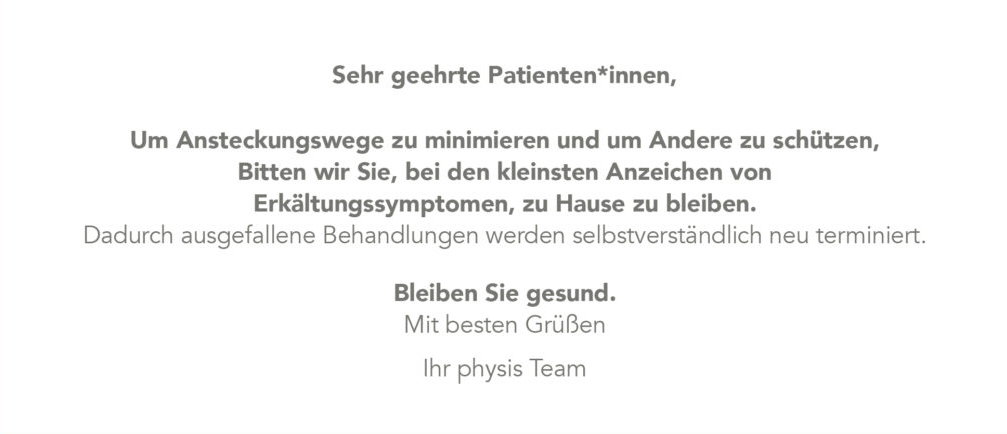
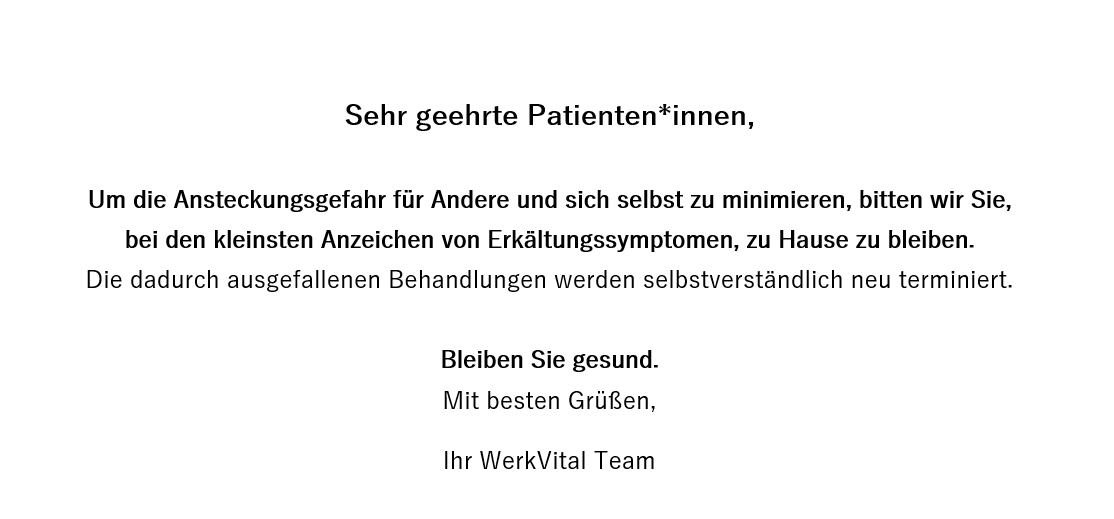
Updated WerkVital
Updated WerkVital

diff --git a/werkVital_files/werkVital.css b/werkVital_files/werkVital.css
@@ -9,7 +9,7 @@ body {
     min-height: 100%;
     margin: 0;
     padding: 0;
-    font-family:'Titillium Web',sans-serif;
+    font-family: 'Yu Gothic Medium', sans-serif;
     font-size:1.5em;
     line-height:1.2;
     background-color: #ffffff;
@@ -21,42 +21,12 @@ body {
     background-color: #ffffff;
 }
 
-#navbar {
-    margin: auto;
-    max-width: 75%;
-}
-
 #innerWrapper {
     height: 100%;
     max-width: 80%;
     margin-left: auto;
     margin-right: auto;
     font-size:  0.8em;
-    padding-bottom: 10%;
-}
-
-#footWrapper {
-    position: page;
-    bottom: 0;
-    min-width: 100%;
-    font-size: 0.5em;
-    background-color: #6E7857;
-    padding: 1.5% 0;
-    line-height:1.5;
-}
-
-#footerAddress {
-    min-width: 60%;
-    margin: auto;
-    display: inline-block;
-    text-align: left;
-}
-
-#footerOffnungszeiten {
-    min-width: 10%;
-    margin: auto;
-    display: inline-block;
-    text-align: right;
 }
 
 #head{
@@ -67,47 +37,64 @@ body {
     z-index: 100;
 }
 
-ul.navbar {
-    list-style-type: none;
-    margin: 0;
-    padding: 0;
-    /*overflow: hidden;*/
-    background-color: #ffffff;
-}
 
-ul.navbar li {
-    padding-top: 1em;
-    float: right;
-}
-
-ul.navbar li a {
-    display: inline-block;
-    color: #000010;
-    text-align: center;
-    padding: 0.6em 0.3em;
-    text-decoration: none;
-}
-
-ul.navbar li a:hover:not(.active) {
-    color: #5E8600;
-    transition: all .2s ease-in-out;
-}
-
-ul.navbar li a.active {
-    color: #97d700;
-    text-decoration: underline;
-}
 
 #separator {
     background-color: #97d700;
     padding: 0.1em;
 }
-#separatorImg {
+.separatorImg {
     background-color: #97d700;
     padding-bottom: 0.2em;
-    margin-top: -0.25em;
+    margin-top: -0.27em;
     margin-bottom: 0.5em;
 }
+
+
+
+#content_box1 {
+    border: red solid 2px;
+    width: 100%;
+    padding-bottom: 1em;
+}
+
+#content_box2 {
+    border: red solid 2px;
+    width: 100%;
+    padding-bottom: 1em;
+}
+
+
+#separator_content {
+    position: relative;
+}
+
+#alertContainer {
+    position: absolute;
+    top: 65%;
+    left: 50%;
+    transform: translate(-50%, -50%);
+    min-width: 70%;
+}
+
+#welcomeText {
+    text-align-last: left;
+    line-height: 1.2;
+    font-size: 1.2em;
+    position: absolute;
+    top: 17%;
+    left: 30%;
+    transform: translate(-15%, -50%);
+}
+
+#welcomeAlert {
+    max-width: 100%;
+    padding: 1%;
+    border: 2px solid #6E7857;
+    opacity: 0.85;
+}
+
+/* ------------------------- Leistungen Liste ------------------------- */
 
 ul.footerList {
     list-style-type: none;
@@ -145,48 +132,45 @@ ul.footerList li a:hover {
     color: #97d700;
 }
 
-#content_box1 {
-    border: red solid 2px;
-    width: 80%;
-    padding-bottom: 1em;
+/* ------------------------- Navbar ------------------------- */
+
+#navbar {
+    margin: auto;
+    max-width: 75%;
 }
 
-#content_box2 {
-    border: red solid 2px;
-    width: 100%;
-    padding-bottom: 1em;
+ul.navbar {
+    list-style-type: none;
+    margin: 0;
+    padding: 0;
+    /*overflow: hidden;*/
+    background-color: #ffffff;
 }
 
-#separator_content {
-    position: relative;
+ul.navbar li {
+    padding-top: 1em;
+    float: right;
 }
 
-#alertContainer {
-    position: absolute;
-    top: 65%;
-    left: 50%;
-    transform: translate(-50%, -50%);
-    min-width: 70%;
+ul.navbar li a {
+    display: inline-block;
+    color: #000010;
+    text-align: center;
+    padding: 0.6em 0.3em;
+    text-decoration: none;
 }
 
-#welcomeText {
-    text-align-last: left;
-    line-height: 1.2;
-    font-size: 1.2em;
-    position: absolute;
-    top: 17%;
-    left: 30%;
-    transform: translate(-15%, -50%);
+ul.navbar li a:hover:not(.active) {
+    color: #5E8600;
+    transition: all .2s ease-in-out;
 }
 
-#welcomeAlert {
-    max-width: 100%;
-    padding: 1%;
-    border: 2px solid #6E7857;
-    opacity: 0.85;
+ul.navbar li a.active {
+    color: #97d700;
+    text-decoration: underline;
 }
 
-/* ------------------------- mobile Menu burger ------------------------- */
+/* ------------------------- Mobile Menu burger ------------------------- */
 
 #menuToggle {
     display: none;
@@ -293,6 +277,34 @@ ul.footerList li a:hover {
     text-decoration: underline;
 }
 
+/* ------------------------- Footer ------------------------- */
+
+#footWrapper {
+    position: page;
+    bottom: 0;
+    min-width: 100%;
+    font-size: 0.5em;
+    background-color: #6E7857;
+    padding: 1.5% 0;
+    line-height:1.5;
+}
+
+#footerAddress {
+    min-width: 60%;
+    max-width: 70%;
+    margin: auto;
+    display: inline-block;
+    text-align: left;
+}
+
+#footerOffnungszeiten {
+    min-width: 10%;
+    margin: auto;
+    display: inline-block;
+    text-align: right;
+}
+
+/* ------------------------- Mobile ------------------------- */
 @media screen and (max-width: 750px){
     body{
         font-size: 1.1em;
@@ -322,6 +334,8 @@ ul.footerList li a:hover {
     }
     #footWrapper{
         bottom: 0;
-        //position: absolute;
+    }
+    #footerImg{
+        width: 30% !important;
     }
 }

diff --git a/werkVital.html b/werkVital.html
@@ -45,9 +45,9 @@
 
         </p>
         <div class="separator_content" id="alertContainer">
-            <img id="welcomeAlert" src="./werkVital_files/Img/werkVitalAlert.png" id="welcomeAlert" style="width: 70%">
+            <img id="welcomeAlert" src="./werkVital_files/Img/werkVitalAlert.png" id="welcomeAlert" style="width: 70%; opacity: 65%">
         </div>
-        <div class="separator" id="separatorImg"></div>
+        <div class="separatorImg" id="separator1"></div>
     </div>
 
 
@@ -56,17 +56,19 @@
         <div class="content" id="content" align="center">
              <div class="content" id="content_box1" style="margin-top: 1em">
                 <p>
-                    <em><strong>Werk</strong><strong style="color: #97d700">Vital</strong></em>
-                    - Physiotherapie Praxis in Berlin <br> Unser Ziel ist es Ihnen zuverl&aumlssig zur Seite zu stehen und
+                     <br> Unser Ziel ist es Ihnen zuverl&aumlssig zur Seite zu stehen und
                     eine qualifizierte und individuelle Behandlung zu gew&aumlhrleisten.
                     <br>
                     Ihr Wohlbefinden ist stets eine Priorit&aumlt f&uumlr uns.
-                    <br><br>
+                </p>
+             </div>
+            <div class="content" id="content_box2" style="margin-top: 1em">
+                <p>
                     Durch unser speziell weitergebildetes <a href="./werkVital_files/werkVitalTeam.html">Team</a> sind Sie
                     bei uns in vielf&aumlltigen Therapiebereichen in besten H&aumlnden. <br>
                     Wir unterst&uumltzen Sie gerne auf dem Weg der Besserung in den folgenden Bereichen:<br>
                 </p>
-                <ul class="content" id="leistungList" style="display: inline-block; text-align-last: left; line-height: 1.3; padding-top: 0.5em">
+                <ul class="content" id="leistungList" style="display: inline-block; text-align-last: left; line-height: 1.3; padding-top: 0.5em; column-count: 1">
                     <li>Krankengymnastik</li>
                     <li>Manuelle Therapie</li>
                     <li>PNF-Therapie</li>
@@ -76,33 +78,35 @@
                     <li>CMD Behandlung (Kiefer)</li>
                     <li>W&aumlrme- / K&aumlltetherapie</li>
                     <li>Elektro- / Ultraschalltherapie</li>
-                    <li>Colonmassage</li>
                     <li>Hausbesuche</li>
                 </ul>
 
                 <p>
                     <br>
+                    Es werden bei uns alle Kassen, Berufsgenossenschaften sowie Privat abgerechnet.
+                    <br><br>
                     Sehr gerne beraten wir Sie bei gesundheitlichen sowie allgemeinen Fragen in Bezug
                     auf eine Terminvereinbarung,
                     z&oumlgern Sie nicht uns zu <a href="./werkVital_files/werkVitalKontakt.html">kontaktieren</a>.
-                    <br><br>
-                    Es werden bei uns alle Kassen, Berufsgenossenschaften sowie Privat abgerechnet.
-                    </p>
-            </div>
-            <div class="content" id="content_box2" style="margin-top: 1em; text-align: left">
-                <img src="./werkVital_files/Img/werkVital_PraxisBild.jpg" style="width: 50%">
+                </p>
             </div>
         </div>
     </div>
+    <div class="content" id="content_box3" style="margin-top: 1em; padding: 0; width: 100%">
+        <div class="separatorImg" id="separator2" style="margin-bottom: 0"></div>
+        <div>
+            <img src="./werkVital_files/Img/werkVital_PraxisBild_test.jpg" style="width: 100%; margin: 0">
+        </div>
+        <div class="separatorImg" id="separator3" style="margin-bottom: 0; margin-top: -0.27em"></div>
+    </div>
+
 
 <!-- the footer of the site -->
     <div class="wrapper" id="footWrapper" align="center" style="color: white">
         <div class="wrapper" id="footerAddress">
             <p>
-                <em><strong>Werk</strong><strong style="color: #97d700">Vital</strong></em>
+                <img src="./werkVital_files/Img/werkVital_Logo_NoBackground.png" id="footerImg" style="width: 15%; margin-left: -1%">
                 <br>
-                <strong>Physiotherapie Praxis in Berlin</strong>
-                <br><br>
                 Uhlandstr. 114<br>
                 10717 Berlin-Wilmersdorf
                 <br><br>

diff --git a/werkVital_files/werkVitalImpressum.html b/werkVital_files/werkVitalImpressum.html
@@ -1,8 +1,13 @@
 <!DOCTYPE html>
 <html lang="en">
 <head>
-    <meta charset="UTF-8">
-    <title>Title</title>
+    <meta http-equiv="Content-Type" charset="text/html; charset=UTF-8">
+    <title>WerkVital - Impressum</title>
+    <link href="./werkVital_files/werkVital.css" rel="stylesheet" type="text/css">
+    <link href='https://fonts.googleapis.com/css?family=Titillium Web' rel='stylesheet'>
+
+    <meta name="viewport" content="width=device-width, initial-scale=1.0, minimum-scale=1.0, maximum-scale=1.0, user-scalable=no">
+
 </head>
 <body>
 
